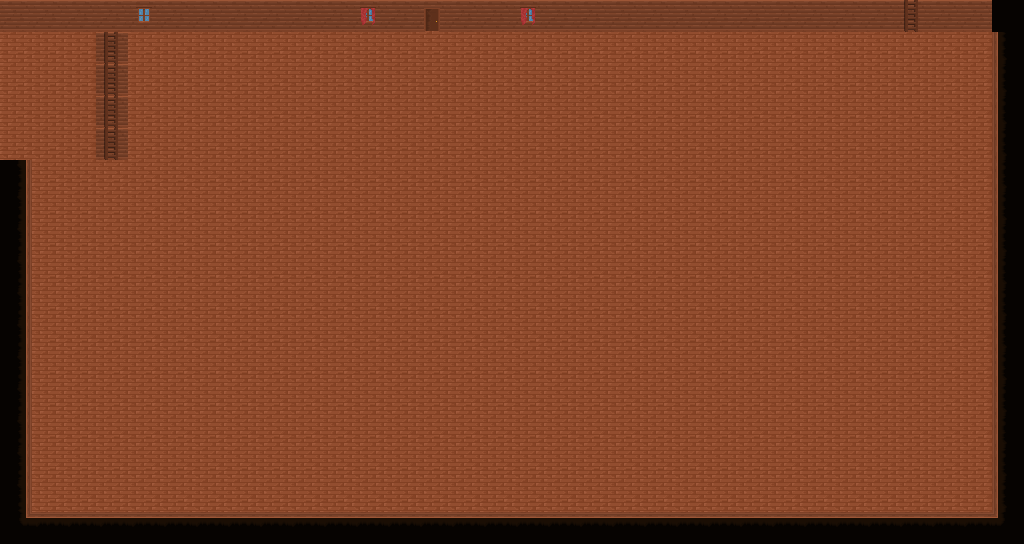
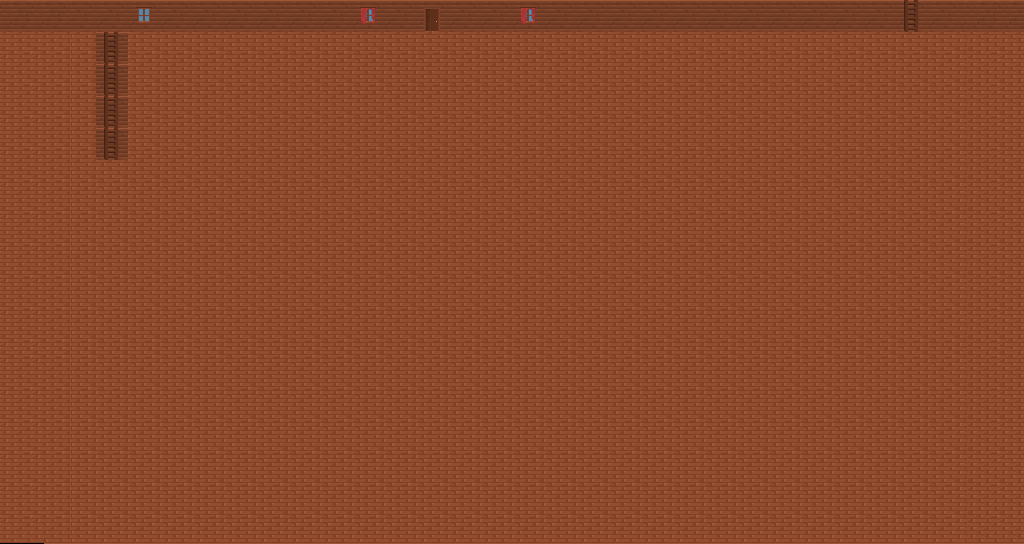
mmaps done

Changed region(s): [[0.0, 0.0, 1.0, 1.0]]

diff --git a/js/sceneMain.js b/js/sceneMain.js
@@ -7,19 +7,46 @@ class SceneMain extends Phaser.Scene {
 
     preload() {
         this.load.image('pagman', 'images/pagman.png')
-        this.load.image('wall', 'images/overworldWall.png')
         this.load.image('coin', 'images/coin.png')
-        this.load.image('hole', 'images/hauseHole.png')
-        this.load.image('home', 'images/home.png')
         this.load.image('thief', 'images/widehardo.png')
-        this.load.image('grassBackground', 'images/hauseBackground.png')
-        this.load.image('dungeonBackground', 'images/XD.jpg')
+        this.load.image('home', 'images/home.png')
+        
+        this.load.image('grassWall', 'images/overworldWall.png')
+        this.load.image('grassHole', 'images/overworldHole.png')
+        this.load.image('grassBackground', 'images/overworldBackground.png')
+
+        this.load.image('homeBackground', 'images/hauseBackground.png')
+        this.load.image('homeHole', 'images/hauseHole.png')
+
+        this.load.image('dungeonBackground', 'images/dungeonBackground.png')
+        this.load.image('dungeonHole', 'images/dungeonHole.png')
+        this.load.image('dungeonWall', 'images/dungeonWall.png')
     }
 
     create() {
 
-        //this.add.image(505,375,'grassBackground')
-        this.add.image(511,270,'grassBackground')
+        switch (this.level) {
+            case 1: {
+                this.add.image(505, 375, 'grassBackground')
+                break
+            }
+
+            case 2: {
+                this.add.image(511, 270, 'homeBackground')
+                break
+            }
+
+            case 3: {
+                this.add.image(511,270,'dungeonBackground');
+                break;
+            }
+
+            default: {
+                this.add.image(505, 375, 'grassBackground')
+            }
+
+        }
+
         this.player = this.physics.add.sprite(150, 150, 'pagman')
         this.player.body.collideWorldBounds = true
 
@@ -37,8 +64,27 @@ class SceneMain extends Phaser.Scene {
 
         this.wall = this.physics.add.staticGroup()
         for (let x = 0; x < this.level * 5; x++) {
-            let brick = this.wall.create(Math.round(Math.random() * (width - 100) + 100),
-                Math.round(Math.random() * (height - 100) + 100), 'wall')
+
+            let brick;
+            
+            switch (this.level) {
+
+                case 1, 2:{
+                    brick = this.wall.create(Math.round(Math.random() * (width - 100) + 100),
+                        Math.round(Math.random() * (height - 100) + 100), 'grassWall')
+                    break
+                    }
+
+                case 3: {
+                    brick = this.wall.create(Math.round(Math.random() * (width - 100) + 100),
+                        Math.round(Math.random() * (height - 100) + 100), 'dungeonWall')
+                    break;
+                }
+                
+                default: brick = this.wall.create(Math.round(Math.random() * (width - 100) + 100),
+                Math.round(Math.random() * (height - 100) + 100), 'grassWall')
+
+            }
 
             brick.body.collideWorldBounds = true;
             brick.body.immovable = true
@@ -46,8 +92,34 @@ class SceneMain extends Phaser.Scene {
 
         this.holes = this.physics.add.staticGroup()
         for (let x = 0; x < this.level * 2; x++) {
-            let hole = this.holes.create(Math.round(Math.random() * (width - 100) + 100),
-                Math.round(Math.random() * (height - 100) + 100), 'hole')
+            let hole
+
+            switch (this.level) {
+
+                case 1: {
+                    hole = this.holes.create(Math.round(Math.random() * (width - 100) + 100),
+                        Math.round(Math.random() * (height - 100) + 100), 'grassHole')
+                    break
+                }
+
+                case 2: {
+                    hole = this.holes.create(Math.round(Math.random() * (width - 100) + 100),
+                    Math.round(Math.random() * (height - 100) + 100), 'homeHole')
+                    break
+                }
+
+                case 3: {
+                    hole = this.holes.create(Math.round(Math.random() * (width - 100) + 100),
+                    Math.round(Math.random() * (height - 100) + 100), 'dungeonHole')
+                    break
+                }
+
+                default: {
+                    hole = this.holes.create(Math.round(Math.random() * (width - 100) + 100),
+                        Math.round(Math.random() * (height - 100) + 100), 'grassHole')
+                }
+
+            }
 
             hole.body.collideWorldBounds = true;
             hole.body.immovable = true
@@ -88,44 +160,44 @@ class SceneMain extends Phaser.Scene {
             if (this.thief.x > this.player.x) {
 
                 this.thief.body.velocity.x = -100
-    
+
             } else if (this.thief.x < this.player.x) {
-    
+
                 this.thief.body.velocity.x = 100
             }
-    
+
             if (this.thief.y > this.player.y) {
-    
+
                 this.thief.body.velocity.y = -100
             } else if (this.thief.y < this.player.y) {
-    
+
                 this.thief.body.velocity.y = 100
             }
-    
-    
+
+
             if (this.cursors.left.isDown) {
-    
+
                 this.player.body.velocity.x = -260 + this.coinsInBag * 20
                 this.player.angle = 180;
             }
             if (this.cursors.right.isDown) {
-    
+
                 this.player.body.velocity.x = 260 - this.coinsInBag * 20
                 this.player.angle = 0;
             }
             if (this.cursors.up.isDown) {
-    
+
                 this.player.body.velocity.y = -260 + this.coinsInBag * 20
                 this.player.angle = 270;
             }
             if (this.cursors.down.isDown) {
-    
+
                 this.player.body.velocity.y = 260 - this.coinsInBag * 20
                 this.player.angle = 90;
             }
         }
 
-        
+
 
         this.physics.collide(this.player, this.point, () => {
 
@@ -145,7 +217,7 @@ class SceneMain extends Phaser.Scene {
             this.coinsInBagText.text = "Coins in bag: " + this.coinsInBag
             this.coinsInHomeText.text = "Coins in home: " + this.coinsInHome
 
-            if (this.coinsInHome >= this.level * 10) {
+            if (this.coinsInHome >= this.level * 1) {
 
                 this.pause = true
 
@@ -153,42 +225,33 @@ class SceneMain extends Phaser.Scene {
                 this.coinsInBagText.text = ""
                 this.coinsInHomeText.text = ""
 
-                this.time.addEvent({delay: 2000, callback: () => {
-                    this.level += 1
+                this.time.addEvent({
+                    delay: 2000, callback: () => {
+                        this.level += 1
 
-                    switch(this.level) {
-                        case 2: {
-                            console.log("case 2");
-                            this.add.image(505,375,'dungeonBackground')
-                            console.log("leaving case2");
-                            break;
-                        }
 
-                        case 3:{
+                        this.add.image(511, 270, 'homeBackground')
 
-                            break;
-                        }
+                        this.pause = false
+                        this.scene.restart()
                     }
-
-                    this.pause = false
-                    this.scene.restart()
-                }})
+                })
             }
         })
 
         this.physics.collide(this.player, this.thief, () => {
-
-            console.log("KOLIZJA Z WIDEHARDO POLICE")
 
             this.coinsInBag = 0
             this.coinsInBagText.text = "Coins in bag: " + this.coinsInBag
 
             this.infoText.text = "     COLLISION\nYou lost your coins"
 
-            this.time.addEvent({delay: 2000, callback: () => {
+            this.time.addEvent({
+                delay: 2000, callback: () => {
 
-                this.infoText.text = ""
-            }})
+                    this.infoText.text = ""
+                }
+            })
         })
 
         this.physics.collide(this.player, this.holes, () => {
@@ -199,12 +262,14 @@ class SceneMain extends Phaser.Scene {
             this.coinsInBagText.text = ""
             this.coinsInHomeText.text = ""
 
-            this.time.addEvent({delay: 5000, callback: () => {
+            this.time.addEvent({
+                delay: 5000, callback: () => {
 
-                this.level = 1
-                this.pause = false
-                this.scene.restart()
-            }})
+                    this.level = 1
+                    this.pause = false
+                    this.scene.restart()
+                }
+            })
         })
 
         this.physics.collide(this.thief, this.wall)
